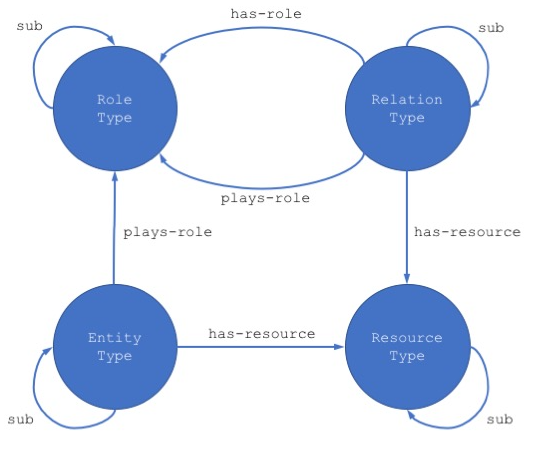
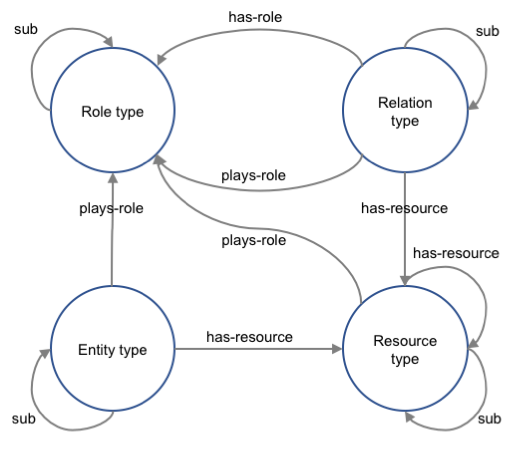
Minor tweaks to knowledge model document for formatting, and new figures.

diff --git a/pages/documentation/1-the-basics/grakn-knowledge-model.md b/pages/documentation/1-the-basics/grakn-knowledge-model.md
@@ -1,7 +1,7 @@
 ---
 title: Grakn Knowledge Model
 keywords: setup, getting started, basics
-last_updated: December 7th, 2016
+last_updated: December 15th, 2016
 tags: [getting-started, reasoner, graql]
 summary: "Introducing the basics of the Grakn knowledge model."
 sidebar: documentation_sidebar
@@ -20,21 +20,42 @@ The ontology is a formal specification of all the relevant concepts and their me
 
 Grakn ontologies use four types of `concepts` for modeling domain knowledge:   
  
-* **Entity Types**: Types of objects or things in the domain, for example, `person`, `man`, `woman`.    
-* **Relation Types**: Types of n-ary relationships between different domain instances, for example, `marriage`, which is a relationship between two instances of enity types `woman` and `man`, playing roles of `wife` and `husband`, respectively. 
-* **Role Types**: Types of roles involved in specific relationships, for example: `wife`, `husband`.     
-* **Resource Types**: Types of attributes associated with domain instances, for example, `name`, or `age`.    
+* **Entity Types**: Types of objects or things in the domain.
+	* For example, `person`, `man`, `woman`.    
 
-The categorization of concept types is effectively enforced in Grakn knowledge model by declaring every concept type as a subtype (i.e., an extension) of exactly one of the four corresponding, built-in concept types: `enity`, `relation`, `role`, `resource`, for example, `person sub entity`, `marriage sub relation`, `wife sub role`, `name sub resource`.
+* **Relation Types**: Types of n-ary relationships between different domain instances. 
+	* For example, `marriage`, which is typically a relationship between two instances of entity types (`woman` and `man`), playing roles of `wife` and `husband`, respectively. 
+
+* **Role Types**: Types of roles involved in specific relationships. 
+	* For example, `wife`, `husband`.     
+
+* **Resource Types**: Types of attributes associated with domain instances.
+	* For example, `name`, or `age`.    
+
+The categorization of concept types is effectively enforced in the Grakn knowledge model by declaring every concept type as a subtype (i.e. an extension) of exactly one of the four corresponding, built-in concept types: 
+
+* `entity`
+	* e.g. `person sub entity` 	
+* `relation`
+	* e.g. `marriage sub relation`	 
+* `role`
+	* e.g. `wife sub role` 
+* `resource` 
+	* e.g. `name sub resource` 
+
 
 Different concept types can be related to each other via four constructs (see Figure 1): 
 
-* **sub**:  expressing that a concept type is a subtype (i.e., an extension) of another one, for example, `woman sub person`, `man sub person`.
-* **has-resource**: expressing that a concept type can be associated with a given resource type, for example, `person has-resource name`.
-* **plays-role**: expressing that instances of a given concept type are allowed to play a specific role, for example, `woman plays-role wife`, `man plays-role husband`. 
-* **has-role**: expressing that a given relation type involves a specific role, for example, `marriage has-role wife`, `marriage has-role husband`.
+* **sub**:  expressing that a concept type is a subtype (i.e., an extension) of another one.
+	* For example, `woman sub person`, `man sub person`.
+* **has-resource**: expressing that a concept type can be associated with a given resource type. 
+	* For example, `person has-resource name`.
+* **plays-role**: expressing that instances of a given concept type are allowed to play a specific role. 
+	* For example, `woman plays-role wife`, `man plays-role husband`. 
+* **has-role**: expressing that a given relation type involves a specific role. 
+	* For example, `marriage has-role wife`, `marriage has-role husband`.
 
-Additionally, all concept types can be declared as `abstract`, meaning that they cannot have any direct instances. For example, `person is-abstract` expresses that the only instances of `person` can be those that belong to more specific types, e.g., `man` or `woman`. 
+Additionally, all concept types can be declared as `abstract`, meaning that they cannot have any direct instances. For example, `person is-abstract` expresses that the only instances of `person` can be those that belong to more specialised subtypes of `person`, e.g., `man` or `woman`. 
 
 ![The concept types and their permitted associations via Grakn ontology constructs.](/images/knowledge-model-fig1.png)
 
@@ -52,7 +73,7 @@ A well-formed Grakn ontology is required to satisfy the following structural pro
 
 ### Inheritance 
 
-As in object-oriented programming, the inheritance mechanism in Grakn enables subtypes to automatically take on some properties of their supertypes. This simplifies the construction of ontologies and helps keeping them succinct. Grakn knowledge model imposes inheritance of all `has-resource` and `plays-role` constraints on entity, relation and resource types.  
+As in object-oriented programming, the inheritance mechanism in Grakn enables subtypes to automatically take on some of the properties of their supertypes. This simplifies the construction of ontologies and helps keep them succinct. The Grakn knowledge model imposes inheritance of all `has-resource` and `plays-role` constraints on entity, relation and resource types.  
    
 For example, in Figure 2, the entity types `woman` and `man` inherit the constraints `has-resource name`, `plays-role partner1`, `plays-role partner2` from their supertype `person`. Similarly, the relation type `marriage` inherits the constraint `has-resource since` from `partnership`. 
 
@@ -64,6 +85,7 @@ For example, in Figure 2, the entity types `woman` and `man` inherit the constra
 The ontology in Figure 2 consists of the following constraints:
 
 **Type declarations** (omitted in the figure):
+
 * `person sub entity`
 * `partnership sub relation`
 * `partner1 sub role` 
@@ -75,6 +97,7 @@ Note, that because of the transitivity of the `sub` construct, the type declarat
 
 
 **Explicit constraints**:
+
 * `person has-resource name`
 * `person plays-role partner1`
 * `person plays-role partner2`
@@ -92,6 +115,7 @@ Note, that because of the transitivity of the `sub` construct, the type declarat
 * `marriage has-role husband`
 
 **Inherited constraints**:
+
 * `woman has-resource name`
 * `woman plays-role partner1`
 * `woman plays-role partner2`
@@ -103,33 +127,36 @@ Note, that because of the transitivity of the `sub` construct, the type declarat
 
 ## Data
 
-The data is expressed by instantiating specific types of entities, relations, concrete resources they are associated with, and assigning roles the instances play in particular relations. The unique identifiers for all instances are defined internally within the Grakn system. There are three types of data instances:
+The data is expressed by instantiating specific types of entities, relations, and concrete resources they are associated with, and assigning roles to the instances played for particular relations. There are three types of data instances:
 
 * **Entities**: instances of entity types, for example, `insert $x isa woman` creates an instance of the entity type `woman`, 
 
 * **Relations**: instances of relation types, for example, `insert (wife:$x, husband:$y) isa marriage` creates an instance of the relation type `marriage` between some instances `$x`, playing the role of `wife`, and `$y`, playing the role of `husband`.
 
-* **Resources**: instances of resource types being associated with particular instances, for example, `insert $x has-name "Elisabeth Niesz"` creates an instance of the resource type `name` with value "Elizabeth Niesz" associated with some instance `$x`. 
+* **Resources**: instances of resource types being associated with particular instances, for example, `insert $x has-name "Elisabeth Niesz"` creates an instance of the resource type `name` with value "Elizabeth Niesz" associated with some instance `$x`. The unique identifiers for all instances are defined internally within the Grakn system. 
 
 Note, that unlike in the case of entity, relation and resource types, there are no instances of role types in the data layer.
 
 
 ### Validation 
 
-To ensure data is correctly structured (i.e., consistent) with respect to the ontology, all data instances are validated against the ontology constraints. All the explicitly represented ontology constraints, together with the inherited ones, form complete schema templates for particular concept types, which guide the validation and, consequently, the data entry process. For example, the ontology in Figure 2, establishes the following schema templates for the concept types `woman` and `marriage`:
+To ensure data is correctly structured (i.e. consistent) with respect to the ontology, all data instances are validated against the ontology constraints. All the explicitly represented ontology constraints, together with the inherited ones, form complete schema templates for particular concept types, which guide the validation and, consequently, the data entry process. For example, the ontology in Figure 2, establishes the following schema templates for the concept types `woman` and `marriage`:
 
-**`woman`**:
+#### `woman`
+
 * `has-resource name`
 * `plays-role wife`
 * `plays-role partner1`
 * `plays-role partner2`
 
-**`marriage`**:
+#### `marriage`
+
 * `has-resource since`
 * `has-role wife`
 * `has-role husband`
 
  A data instance `$x` of a concept type `C` is valid, whenever the following conditions are satisfied:
+ 
  * `$x` instantiates only `C` (and indirectly all supertypes of `C`),
  * all types of resources associated with `$x` belong to the schema template of `C`,
  * for every role type `R` that `$x` plays in any relation instance in the data, there is a constraint `plays-role R` in the schema template of `C`,
@@ -159,17 +186,18 @@ The type inference is based on a simple graph traversal along the `sub` edges. E
 ### Rule-Based Inference
 The rule-based inference exploits a set of user-defined datalog rules and is conducted by means of the  reasoner built naitively into Grakn. Every rule is declared as an instance of a built-in Grakn type `inference-rule`. 
 
-A rule is an expression of the form `lhs G1 rhs G2`, where `G1` and `G2` are a pair of Graql patterns. Whenever the left-hand-side (lhs) pattern `G1` is found in the data, the right-hand-side (rhs) pattern `G2` is inserted. For example, the following rule:
+A rule is an expression of the form `lhs G1 rhs G2`, where `G1` and `G2` are a pair of Graql patterns. Whenever the left-hand-side (lhs) pattern `G1` is found in the data, the right-hand-side (rhs) pattern `G2` is inserted. For example:
  
 
-`lhs
+```
+lhs
 (child:$x, mother:$y) isa motherhood;
 (sister:$y brother:$z) isa siblings;
 rhs
-(nephew:$x, uncle:$z) isa uncle-relation;`
+(nephew:$x, uncle:$z) isa uncle-relation;
+```
  
-
-expresses that whenever instance $x has a mother $y and $y has a brother $z, then one can infer that $z is an uncle of $x, while $x is a nephew of $z. 
+The rule above expresses that, whenever instance $x has a mother $y and $y has a brother $z is found, one can infer that $z is an uncle of $x, while $x is a nephew of $z. 
 
 For more detailed documentation on rules see [Graql Rules](../graql/graql-rules.html).
 
